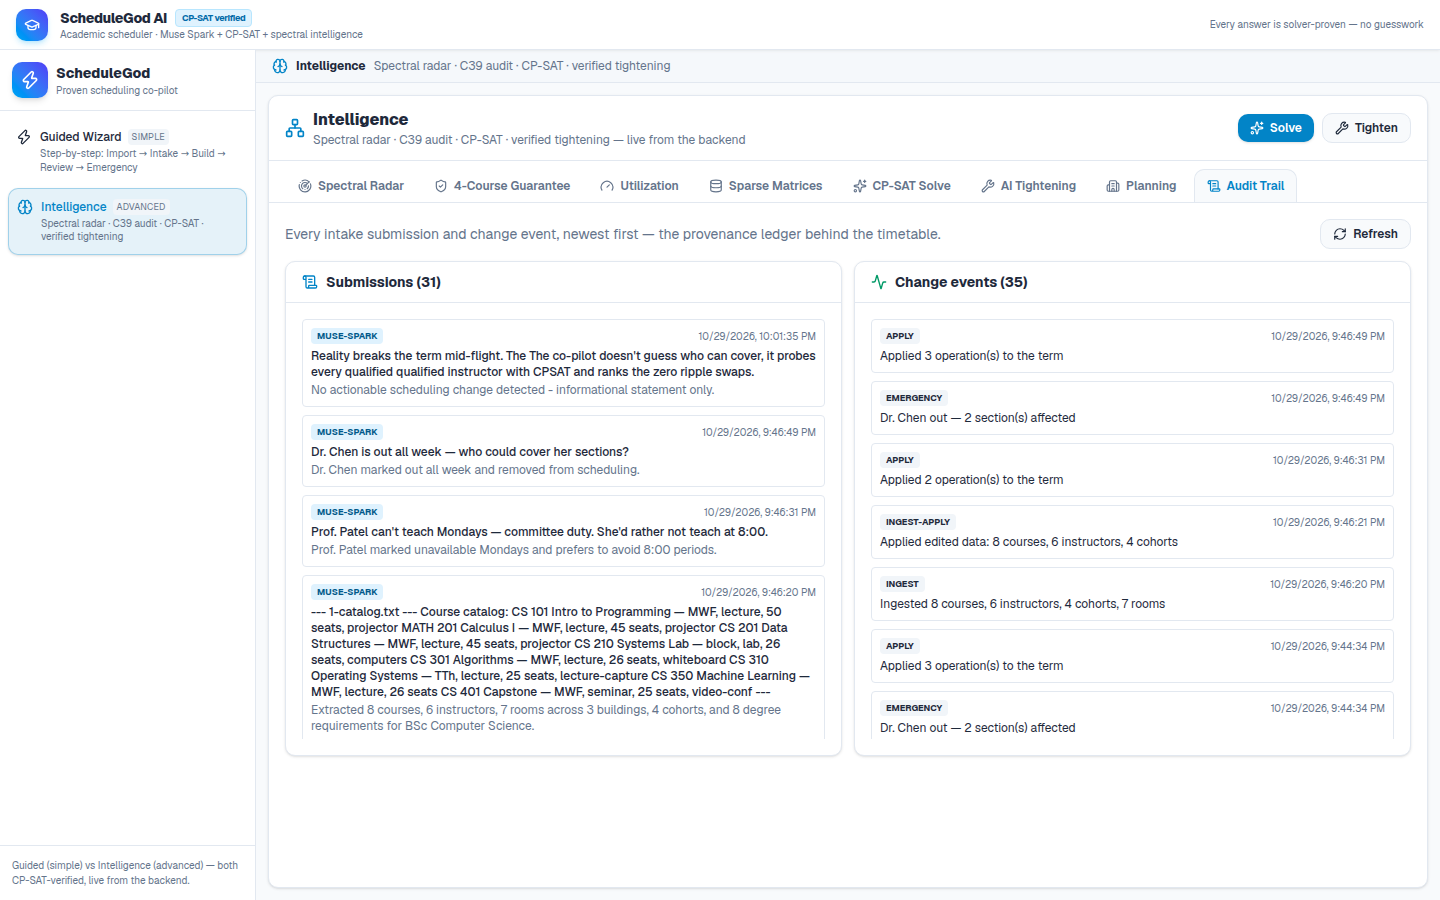
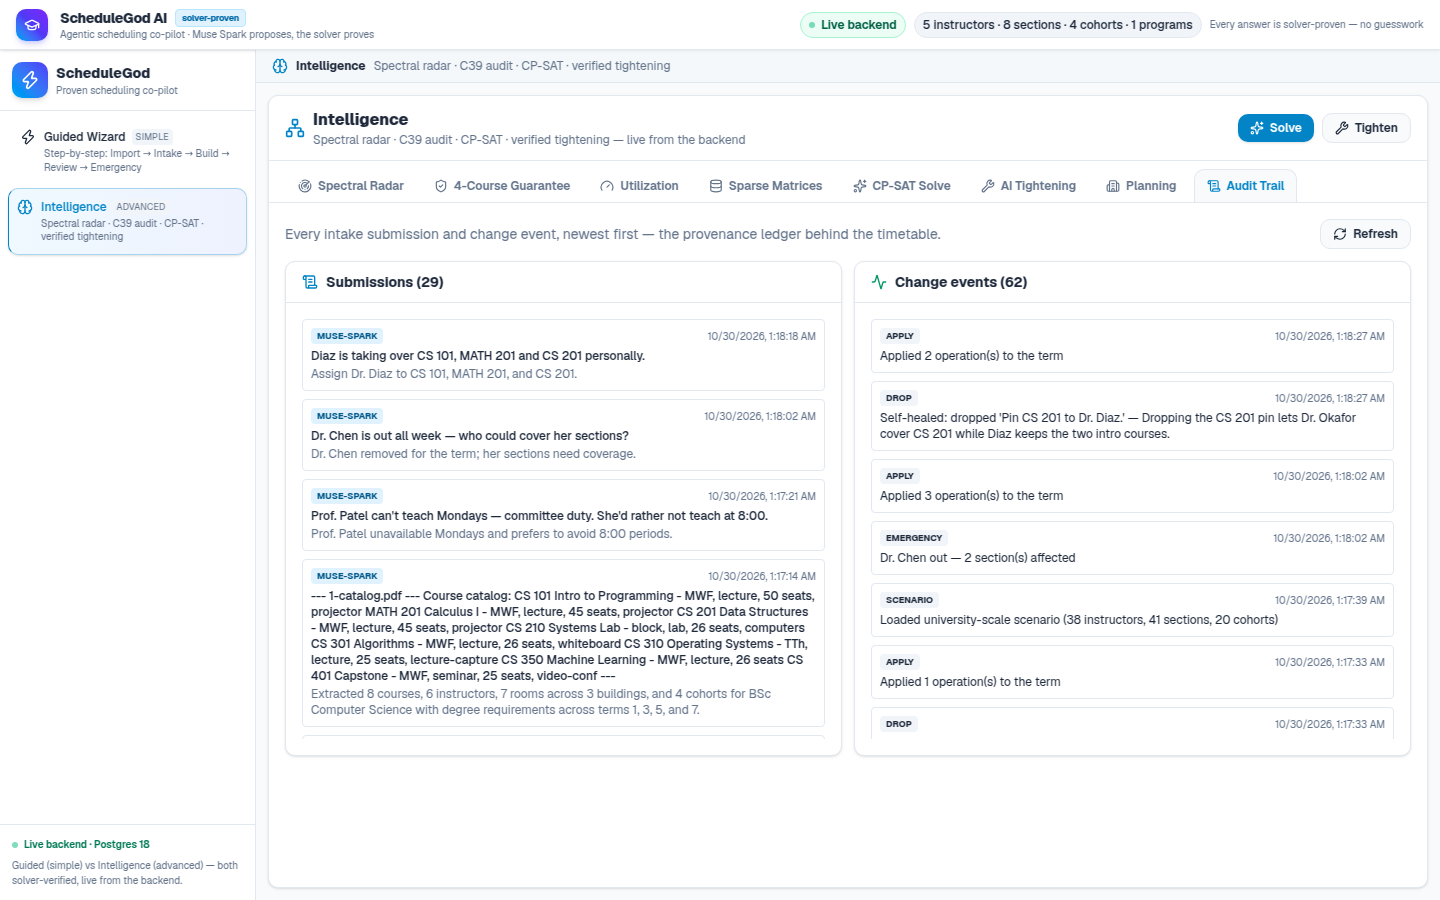
feat(demo): final 84s live-recorded video + fresh screenshots
- Re-ran the click-through recorder live (Muse Spark badges) against
  the elite command-center UI: import autoclean, build, university
  scale, dual-engine compare, emergency diff + agent trace, self-heal,
  audit, spectral (17 shots).
- Assembled final.mp4 (84s, narrated, zoompan) and published it as a
  public GitHub release asset; README + submission packet link it.
  (Same file uploads to YouTube for the form's video field.)
- Refreshed docs screenshots (build/emergency/audit) to current UI.

diff --git a/readme.md b/readme.md
@@ -23,6 +23,8 @@ A department's instructors — twenty-six in the loadable department-scale scena
 Built for the **Meta Global AI Developer Hackathon** — *Build for Your World* track. This is the problem we know firsthand.
 
 > **▶ Live demo (no account, no API key needed): https://prohle--schedulegod-ai-ui-web.us-east.modal.run** — the full wizard UI (Import → Intake → Build → Emergency → Intelligence), proxied to the backend API at https://prohle--schedulegod-ai-api.us-east.modal.run (`/docs`, `/health`, `/engines`). Both are scale-to-zero on Modal, so the first request may take a few seconds. Judges can also run everything locally in 2 minutes with `docker compose up` — see [Run it](#run-it).
+>
+> **▶ Demo video (84 seconds, recorded live with Muse Spark): https://github.com/prohle/schedulegod-ai/releases/download/demo-video/final.mp4** — any-format import autoclean → Build solve → university scale + dual-engine compare → emergency with solver-verified coverage + agent trace → self-heal → audit trail.
 
 ![Build: visual timetable grid](docs/screenshot-build.png)
 

diff --git a/docs/submission.md b/docs/submission.md
@@ -12,7 +12,7 @@ Copy-paste source for the CV platform form. Deadline: **Wed Nov 4, 9:00 PM ET**
 | Problem statement | **Build for Your World** — the course-timetabling week every department coordinator loses, every term |
 | Team | Solo — Huong Le |
 | Repo (public) | https://github.com/prohle/schedulegod-ai |
-| Demo video (≤3:00) | _paste link after upload_ |
+| Demo video (≤3:00) | https://github.com/prohle/schedulegod-ai/releases/download/demo-video/final.mp4 (84s, recorded live Oct 29) — _upload the same file to YouTube and add that link here too_ |
 | Live demo | **https://prohle--schedulegod-ai-ui-web.us-east.modal.run** (full UI, no account/key; backend API: https://prohle--schedulegod-ai-api.us-east.modal.run/docs) — or judges run `docker compose up` (no key, no account — see README "Judges — try it in 2 minutes") |
 | X post (Most Viral) | _paste link after posting; engagement counts until Nov 8 EOD_ |
 
